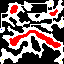
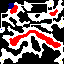
added health cards that work, added timed sprites, fixed cards data, created SceneMainAreaTileWater

Changed region(s): [[0.125, 0.0312, 0.2188, 0.1562]]

diff --git a/core/src/main/java/com/mygdx/game/items/cards/Card.java b/core/src/main/java/com/mygdx/game/items/cards/Card.java
@@ -23,7 +23,7 @@ public abstract class Card extends Item {
     protected BitmapFont nameFont, descriptionFont, pointsFont, amountFont;
     protected Vector2f nameSize, descriptionSize, pointsSize, amountSize;
 
-    private Texture element_overlay_texture;
+    protected Texture element_overlay_texture;
 
     public Card(String name, String folder, String description, CardType type, int pointsCost, Quality quality, Element element) {
         super(name, "cards/" + folder, description, quality);
@@ -41,7 +41,24 @@ public abstract class Card extends Item {
         pointsFont = FontUtil.getFont(40);
         amountFont = FontUtil.getFont(40);
 
-        nameSize = FontUtil.getTextSize(nameFont, name);
+        nameSize = FontUtil.getTextSize(nameFont, getName());
+        descriptionSize = FontUtil.getTextSize(descriptionFont, description);
+        pointsSize = FontUtil.getTextSize(pointsFont, "" + getPointsCost());
+    }
+
+    public Card(String name, String description, CardType type, int pointsCost, Quality quality, Element element) {
+        super(name, description, quality);
+        this.description = description;
+        this.pointsCost = pointsCost;
+        this.type = type;
+        this.element = element;
+
+        nameFont = FontUtil.getFont(40);
+        descriptionFont = FontUtil.getFont(24);
+        pointsFont = FontUtil.getFont(40);
+        amountFont = FontUtil.getFont(40);
+
+        nameSize = FontUtil.getTextSize(nameFont, getName());
         descriptionSize = FontUtil.getTextSize(descriptionFont, description);
         pointsSize = FontUtil.getTextSize(pointsFont, "" + getPointsCost());
     }

diff --git a/core/src/main/java/com/mygdx/game/graphics/TimedSpriteSheet.java b/core/src/main/java/com/mygdx/game/graphics/TimedSpriteSheet.java
@@ -1,0 +1,51 @@
+package com.mygdx.game.graphics;
+
+import com.badlogic.gdx.graphics.Texture;
+import com.mygdx.game.util.Vector2f;
+import com.mygdx.game.util.Vector2i;
+
+public class TimedSpriteSheet {
+
+    private Texture spriteSheet;
+    private int n;
+    private int animationSpeed;
+    private int animationCount;
+
+    private Vector2i size;
+
+    private Vector2i srcPos, srcSize;
+
+    public TimedSpriteSheet(Texture texture, int n, int time) {
+        spriteSheet = texture;
+
+        animationSpeed = time;
+        animationCount = 0;
+
+        this.n = n;
+        srcPos = new Vector2i(0,0);
+        srcSize = new Vector2i(spriteSheet.getWidth() / n, spriteSheet.getHeight());
+
+        size = new Vector2i(spriteSheet.getWidth()/n, spriteSheet.getHeight());
+    }
+
+    public void update() {
+        animationCount++;
+        srcPos.x = ((animationCount/animationSpeed)%n) * srcSize.w();
+    }
+
+    public void reset() {
+        srcPos.x = 0;
+    }
+
+    public void render(RenderSystem rs, Vector2f pos) {
+        rs.draw(spriteSheet, pos, size, srcPos, srcSize, false, false);
+    }
+
+    public Vector2i getSize() {
+        return size;
+    }
+
+    public void setSize(Vector2i size) {
+        this.size = size;
+    }
+}

diff --git a/core/src/main/java/com/mygdx/game/scenes/main_area/SceneMainAreaGrid.java b/core/src/main/java/com/mygdx/game/scenes/main_area/SceneMainAreaGrid.java
@@ -94,7 +94,7 @@ public class SceneMainAreaGrid {
                     case ENEMY:
                         tileGrid[i][j] = new SceneMainAreaTile(scene, new Vector2f(i,j), "tile_basic", type);
                         if(Math.random() < enemyChance)
-                            EnemyFactory.newMainAreaEnemy(scene, tileGrid[i][j].getPos());
+                            EnemyFactory.newMainAreaEnemy(scene, new Vector2f(tileGrid[i][j].getPos()));
                         break;
                     case CHEST:
                         tileGrid[i][j] = new SceneMainAreaTile(scene, new Vector2f(i,j), "tile_basic", type);
@@ -102,6 +102,9 @@ public class SceneMainAreaGrid {
                         break;
                     case DOOR:
                         tileGrid[i][j] = new SceneMainAreaTile(scene, new Vector2f(i,j), "tile_basic", type);
+                        break;
+                    case WATER:
+                        tileGrid[i][j] = new SceneMainAreaTileWater(scene, new Vector2f(i,j), "tile_water", type);
                         break;
                     case NONE:
                         break;

diff --git a/core/src/main/java/com/mygdx/game/items/cards/PotionCard.java b/core/src/main/java/com/mygdx/game/items/cards/PotionCard.java
@@ -1,0 +1,29 @@
+package com.mygdx.game.items.cards;
+
+import com.badlogic.gdx.graphics.Texture;
+import com.mygdx.game.attributes.Element;
+import com.mygdx.game.attributes.Quality;
+
+public abstract class PotionCard extends Card {
+
+    public PotionCard(String name, String description, CardType type, int pointsCost, Quality quality, Element element) {
+        super(name, description, type, pointsCost, quality, element);
+
+        if(quality.equals(Quality.STANDARD))
+        {
+            icon = new Texture("items/cards/potions/Potion_icon.png");
+        } else {
+            icon = new Texture("items/cards/potions/Potion_" + quality.getStr() + "_icon.png");
+        }
+
+        if(element != null) {
+            if(quality.equals(Quality.STANDARD))
+            {
+                element_overlay_texture = new Texture("items/cards/potions/Potion_overlay.png");
+            } else {
+                element_overlay_texture = new Texture("items/cards/potions/Potion_" + quality.getStr() + "_overlay.png");
+            }
+        }
+    }
+
+}

diff --git a/core/src/main/java/com/mygdx/game/scenes/main_area/SceneMainAreaTileWater.java b/core/src/main/java/com/mygdx/game/scenes/main_area/SceneMainAreaTileWater.java
@@ -1,0 +1,29 @@
+package com.mygdx.game.scenes.main_area;
+
+import com.mygdx.game.graphics.RenderSystem;
+import com.mygdx.game.graphics.TimedSpriteSheet;
+import com.mygdx.game.util.Vector2f;
+
+public class SceneMainAreaTileWater extends SceneMainAreaTile {
+
+    private TimedSpriteSheet spriteSheet;
+    public SceneMainAreaTileWater(SceneMainArea scene, Vector2f pos, String name, SceneMainAreaTileType type) {
+        super(scene, pos, name, type);
+        spriteSheet = new TimedSpriteSheet(getImage(), 4, 10);
+        setSize(spriteSheet.getSize());
+        setPos(Vector2f.multiplyVectors(pos, spriteSheet.getSize()));
+
+    }
+
+    @Override
+    public void update() {
+        super.update();
+        spriteSheet.update();
+    }
+
+    @Override
+    public void render(RenderSystem rs) {
+        spriteSheet.render(rs, renderPos);
+        rs.draw(endTexture, endPos);
+    }
+}

diff --git a/core/src/main/java/com/mygdx/game/factories/CardFactory.java b/core/src/main/java/com/mygdx/game/factories/CardFactory.java
@@ -9,6 +9,7 @@ import com.mygdx.game.items.cards.BowCard;
 import com.mygdx.game.items.cards.Card;
 import com.mygdx.game.items.cards.CardType;
 import com.mygdx.game.items.cards.GunCard;
+import com.mygdx.game.items.cards.HealCard;
 import com.mygdx.game.items.cards.MagicCard;
 import com.mygdx.game.items.cards.MeleeCard;
 import com.mygdx.game.items.cards.ThrowableSize;
@@ -69,8 +70,12 @@ public class CardFactory {
                 int cost = cardData.getInt("Base_Point_Cost");
                 return new GunCard(name, damage, cost, quality, element);
             }
+            case POTION: {
+                int amount = cardData.getInt("Base_Amount");
+                int cost = cardData.getInt("Base_Point_Cost");
+                return new HealCard(name, amount, cost, quality);
+            }
             case SUPPORT:
-
                 break;
             case SPECIAL:
 

diff --git a/core/src/main/java/com/mygdx/game/items/cards/HealCard.java b/core/src/main/java/com/mygdx/game/items/cards/HealCard.java
@@ -3,12 +3,17 @@ package com.mygdx.game.items.cards;
 import com.mygdx.game.attributes.Quality;
 import com.mygdx.game.entities.battle.BattleLiving;
 import com.mygdx.game.scenes.battle.SceneBattle;
+import com.mygdx.game.util.FontUtil;
 
-public class HealCard extends Card {
+public class HealCard extends PotionCard {
 
     private int healAmount;
-    public HealCard(String name, int pointsCost) {
-        super(name, "misc", "Heals the player", CardType.SUPPORT, pointsCost, Quality.STANDARD, null);
+    public HealCard(String name, int amount, int pointsCost, Quality quality) {
+        super(name, "Heals the player", CardType.SUPPORT, pointsCost, quality, null);
+        this.name = name;
+        healAmount = (int) (amount * quality.getMultiplier());
+
+        amountSize = FontUtil.getTextSize(amountFont, "" + getAmount());
     }
 
     @Override

diff --git a/core/src/main/java/com/mygdx/game/util/ImageUtil.java b/core/src/main/java/com/mygdx/game/util/ImageUtil.java
@@ -19,6 +19,7 @@ public class ImageUtil {
         final int green = Color.rgba8888(Color.GREEN);
         final int yellow = Color.rgba8888(Color.YELLOW);
         final int blue = Color.rgba8888(Color.BLUE);
+        final int navy = Color.rgba8888(new Color(0,0,0.502f,1));
         final int black = Color.rgba8888(Color.BLACK);
 
         for(int i = 0; i < image.getWidth(); i++) {
@@ -33,6 +34,8 @@ public class ImageUtil {
                     map[i][j] = SceneMainAreaTileType.CHEST;
                 else if(color == blue)
                     map[i][j] = SceneMainAreaTileType.SPAWN;
+                else if(color == navy)
+                    map[i][j] = SceneMainAreaTileType.WATER;
                 else if(color == green)
                     map[i][j] = SceneMainAreaTileType.DOOR;
                 else

diff --git a/core/src/main/java/com/mygdx/game/scenes/main_area/SceneMainAreaTile.java b/core/src/main/java/com/mygdx/game/scenes/main_area/SceneMainAreaTile.java
@@ -9,14 +9,14 @@ public class SceneMainAreaTile extends MainAreaEntity {
 
     private SceneMainAreaTileType type;
 
-    private Vector2f renderPos;
-    private Vector2f endPos;
+    protected Vector2f renderPos;
+    protected Vector2f endPos;
 
     private float offsetLevel;
 
     private float distSoftner;
 
-    private Texture endTexture;
+    protected Texture endTexture;
     private float yOffset;
     public SceneMainAreaTile(SceneMainArea scene, Vector2f pos, String name, SceneMainAreaTileType type) {
         super(scene, pos, "tiles/main_area", name);

diff --git a/core/src/main/java/com/mygdx/game/PlayerVars.java b/core/src/main/java/com/mygdx/game/PlayerVars.java
@@ -21,8 +21,9 @@ public class PlayerVars {
         deck.addCard(CardFactory.buildCard("Magic", Element.GRASS));
         deck.addCard(CardFactory.buildCard("Sword"));
         deck.addCard(CardFactory.buildCard("Bomb"));
-        //deck.addCard(CardFactory.buildCard("Heal"));
 
+        pack.addCard(CardFactory.buildCard("Heal"));
+        pack.addCard(CardFactory.buildCard("Heal", Quality.STRONG));
         pack.addCard(CardFactory.buildCard("Bow"));
         pack.addCard(CardFactory.buildCard("Sword"));
         pack.addCard(CardFactory.buildCard("Bow"));

diff --git a/core/src/main/java/com/mygdx/game/items/Item.java b/core/src/main/java/com/mygdx/game/items/Item.java
@@ -22,6 +22,16 @@ public abstract class Item {
         icon = new Texture("items/" + folder + "/" + name + "_icon.png");
     }
 
+    public Item(String name, String description, Quality quality) {
+        this.name = name;
+        this.description = description;
+
+        this.quality = quality;
+        if(quality == null) {
+            this.quality = Quality.STANDARD;
+        }
+    }
+
     public String getName() {
         String s = "";
         if(quality != Quality.STANDARD) {

diff --git a/core/src/main/java/com/mygdx/game/entities/battle/BattleLiving.java b/core/src/main/java/com/mygdx/game/entities/battle/BattleLiving.java
@@ -153,6 +153,8 @@ public abstract class BattleLiving extends BattleTileEntity implements CooldownI
 
     public void recover(int rec) {
         this.health += rec;
+        if(this.health > maxHealth)
+            this.health = maxHealth;
     }
 
     public int getHealth() {
